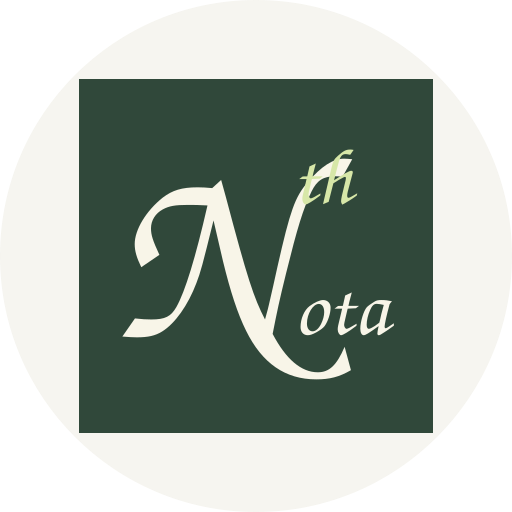
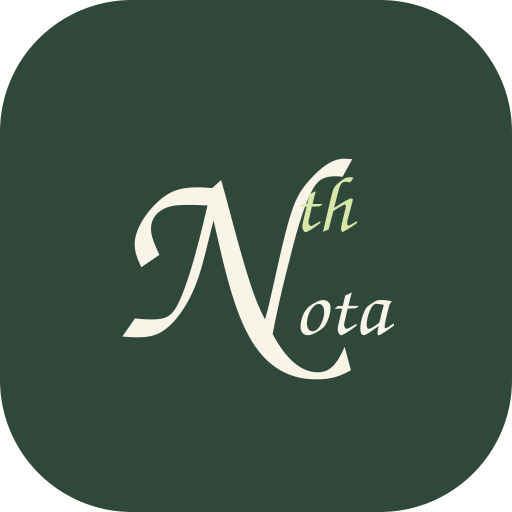
Lower cursive th and fill the complete launcher background green in 0.3.3

diff --git a/dist/app.js b/dist/app.js
@@ -37,7 +37,7 @@ function checkReminders(){if(NotaPlatform.isAndroid)return;for(const n of state.
 function readBack(text){if(NotaPlatform.read(text,state.settings.rate||1)){toast('Reading with an installed offline voice.');return;}if(!('speechSynthesis'in window)){toast('Readback is not available in this browser.');return;}speechSynthesis.cancel();const u=new SpeechSynthesisUtterance(text);u.rate=state.settings.rate||1;speechSynthesis.speak(u);toast('Reading aloud. Use Stop readback in Settings to stop.');}
 async function download(data,name,mime){if(NotaPlatform.isAndroid){try{let payload;if(data instanceof Blob)payload=data;else if(typeof data==='string'&&data.startsWith('data:'))payload=await(await fetch(data)).blob();else payload=new Blob([data],{type:mime||'text/plain'});await NotaPlatform.exportBlob(payload,name);toast('Choose where to save your file.');}catch(e){toast(e.message||'Could not save this file.');}return;}const blob=data instanceof Blob?data:typeof data==='string'&&data.startsWith('data:')?data:null;const url=blob instanceof Blob?URL.createObjectURL(blob):blob||URL.createObjectURL(new Blob([data],{type:mime||'text/plain'}));const a=document.createElement('a');a.href=url;a.download=name.replace(/[<>:"/\\|?*]/g,'-');a.click();if(!url.startsWith('data:'))setTimeout(()=>URL.revokeObjectURL(url),3000);}
 function backupModal(){modal('Keep a copy of your desk',`<div class="assistant-intro"><h3>Your thoughts are yours.</h3><p>A backup includes every workspace, note, drawing, attachment, and reminder. Keep a copy somewhere safe.</p></div><div class="setting-row"><span>${state.workspaces.length} workspaces · ${state.items.length} items<small>Stored in this browser on this device. Clearing browser data removes this copy.</small></span><i data-lucide="hard-drive"></i></div><p class="hint">Restoring replaces this device’s current desk after confirmation. Backups contain your notes and attachments in readable form; store them privately.</p>`,`<button class="secondary" id="restore-backup"><i data-lucide="upload"></i> Restore a backup</button><button class="primary" id="save-backup"><i data-lucide="download"></i> Download backup</button>`);$('#save-backup').onclick=()=>{download(JSON.stringify(state),`Nth-Nota-Backup-${new Date().toISOString().slice(0,10)}.json`,'application/json');toast('Backup download started.');};$('#restore-backup').onclick=()=>$('#restore-input').click();}
-function settingsModal(){modal('Your desk, your way',`<div class="setting-row"><span>Dark paper<small>A quieter desk for evening thoughts.</small></span><input id="dark-setting" type="checkbox" aria-label="Dark theme" ${state.settings.dark?'checked':''}></div><div class="setting-row"><span>Automatic math<small>Finish numeric equations when you type = in a note.</small></span><input id="math-setting" type="checkbox" aria-label="Automatic math" ${state.settings.math?'checked':''}></div><div class="setting-row"><span>Readback speed</span><select id="read-speed" aria-label="Readback speed">${[.75,1,1.25,1.5,2].map(s=>`<option value="${s}" ${s===(state.settings.rate||1)?'selected':''}>${s}×</option>`).join('')}</select><button id="stop-read" class="secondary">Stop readback</button></div><div class="setting-row"><span>AI · free services only<small>Local AI connects automatically on supported Android phones. Free cloud assistance is available in the connected Android build after you allow it below. No model selection or paid fallback.</small></span><span class="feature-status">${NotaPlatform.hasLocalAI?'Local AI connected':'Android required'}</span></div><div class="setting-row"><span>Allow free cloud assistance<small>${NotaPlatform.cloudState().configured?'If local AI is unavailable, send your request, selected note context, and recent conversation to our Cloudflare gateway and, if connected by the owner, Groq. Local AI is tried first. Provider data policies apply.':'The owner’s free gateway is not activated in this build yet. Local AI can work independently.'}</small></span><input id="cloud-setting" type="checkbox" aria-label="Allow cloud assistance" ${NotaPlatform.cloudState().allowed?'checked':''} ${NotaPlatform.cloudState().configured?'':'disabled'}></div><div class="setting-row"><span>Working in this prototype<small>Notes, tasks, movable cards, sketch / handwriting / ink, image editing and markup, PDF markup, DOCX/TXT/Markdown import, exports, voice recording, browser readback, search and backups.</small></span><span class="feature-status">Try it</span></div><div class="setting-row"><span>Needs the native Android build<small>Local AI quality, handwriting-to-text, notifications and background audio need device testing. Cross-device sync is a later milestone.</small></span><span class="feature-status pending">In development</span></div><p class="hint">Nth Nota 0.3.2 · An Nth Experience. Handwriting mode captures your real pen strokes; it does not convert cursive into typed text yet. Voice and readback depend on browser and device support.</p>`);$('#cloud-setting').onchange=e=>{NotaPlatform.allowCloud(e.target.checked);};$('#dark-setting').onchange=e=>{state.settings.dark=e.target.checked;document.body.classList.toggle('dark',e.target.checked);save();};$('#math-setting').onchange=e=>{state.settings.math=e.target.checked;save();};$('#read-speed').onchange=e=>{state.settings.rate=Number(e.target.value);save();};$('#stop-read').onclick=()=>NotaPlatform.stopRead();}
+function settingsModal(){modal('Your desk, your way',`<div class="setting-row"><span>Dark paper<small>A quieter desk for evening thoughts.</small></span><input id="dark-setting" type="checkbox" aria-label="Dark theme" ${state.settings.dark?'checked':''}></div><div class="setting-row"><span>Automatic math<small>Finish numeric equations when you type = in a note.</small></span><input id="math-setting" type="checkbox" aria-label="Automatic math" ${state.settings.math?'checked':''}></div><div class="setting-row"><span>Readback speed</span><select id="read-speed" aria-label="Readback speed">${[.75,1,1.25,1.5,2].map(s=>`<option value="${s}" ${s===(state.settings.rate||1)?'selected':''}>${s}×</option>`).join('')}</select><button id="stop-read" class="secondary">Stop readback</button></div><div class="setting-row"><span>AI · free services only<small>Local AI connects automatically on supported Android phones. Free cloud assistance is available in the connected Android build after you allow it below. No model selection or paid fallback.</small></span><span class="feature-status">${NotaPlatform.hasLocalAI?'Local AI connected':'Android required'}</span></div><div class="setting-row"><span>Allow free cloud assistance<small>${NotaPlatform.cloudState().configured?'If local AI is unavailable, send your request, selected note context, and recent conversation to our Cloudflare gateway and, if connected by the owner, Groq. Local AI is tried first. Provider data policies apply.':'The owner’s free gateway is not activated in this build yet. Local AI can work independently.'}</small></span><input id="cloud-setting" type="checkbox" aria-label="Allow cloud assistance" ${NotaPlatform.cloudState().allowed?'checked':''} ${NotaPlatform.cloudState().configured?'':'disabled'}></div><div class="setting-row"><span>Working in this prototype<small>Notes, tasks, movable cards, sketch / handwriting / ink, image editing and markup, PDF markup, DOCX/TXT/Markdown import, exports, voice recording, browser readback, search and backups.</small></span><span class="feature-status">Try it</span></div><div class="setting-row"><span>Needs the native Android build<small>Local AI quality, handwriting-to-text, notifications and background audio need device testing. Cross-device sync is a later milestone.</small></span><span class="feature-status pending">In development</span></div><p class="hint">Nth Nota 0.3.3 · An Nth Experience. Handwriting mode captures your real pen strokes; it does not convert cursive into typed text yet. Voice and readback depend on browser and device support.</p>`);$('#cloud-setting').onchange=e=>{NotaPlatform.allowCloud(e.target.checked);};$('#dark-setting').onchange=e=>{state.settings.dark=e.target.checked;document.body.classList.toggle('dark',e.target.checked);save();};$('#math-setting').onchange=e=>{state.settings.math=e.target.checked;save();};$('#read-speed').onchange=e=>{state.settings.rate=Number(e.target.value);save();};$('#stop-read').onclick=()=>NotaPlatform.stopRead();}
 function assistant(n,excerpt=''){
 const context=excerpt.trim()||(n?plain(n.html||''):''),key=n?.id||state.active;
 state.assistantConversations=state.assistantConversations||{};let conversation=structuredClone(state.assistantConversations[key]||[]),task=context?'proofread':'brainstorm',controller=null,lastReply='',lastTask=task;

diff --git a/dist/sw.js b/dist/sw.js
@@ -1,5 +1,5 @@
 'use strict';
-const VERSION='nth-nota-shell-0.3.2';
+const VERSION='nth-nota-shell-0.3.3';
 const FILES=['./','./index.html','./style.css','./app.js','./core.js','./desk-store.js','./ai-prompts.js','./ai-router.js','./platform.js','./manifest.webmanifest','./icon-192.png','./icon-512.png','./vendor/lucide.js','./vendor/jszip.js','./vendor/docx.js','./vendor/pdf-lib.js','./vendor/pdf.mjs','./vendor/pdf.worker.min.mjs'];
 self.addEventListener('install',e=>e.waitUntil((async()=>{const cache=await caches.open(VERSION);await cache.addAll(FILES);})()));
 self.addEventListener('activate',e=>e.waitUntil((async()=>{for(const key of await caches.keys())if(key.startsWith('nth-nota-shell-')&&key!==VERSION)await caches.delete(key);await self.clients.claim();})()));

diff --git a/tools/generate-icon.py b/tools/generate-icon.py
@@ -18,7 +18,7 @@ def text(value,x,y,size,color):
   parts.append((pen.getCommands(),color));x+=glyph.width*scale
 
 text('N',95,745,760,'#f8f5e8')
-text('th',615,360,230,'#d7e7a8')
+text('th',615,440,230,'#d7e7a8')
 text('ota',620,738,240,'#f8f5e8')
 body=''.join(f'<path d="{d}" fill="{color}"/>' for d,color in parts)
 square='<path d="M0 0H1024V1024H0Z" fill="#30483a"/>'
@@ -32,35 +32,35 @@ for density,size in [('mdpi',48),('hdpi',72),('xhdpi',96),('xxhdpi',144),('xxxhd
  folder=Path('android/app/src/main/res')/('mipmap-'+density);folder.mkdir(exist_ok=True)
  png(svg,str(folder/'ic_launcher.png'),size)
 
-# Android controls the outer adaptive mask. Fit an actual square inside its
-# smallest circular visible region (72/108 of the full foreground viewport).
+# Keep the existing lettering scale; the background now fills the complete
+# launcher-controlled mask in the same green as the centre.
 origin=276;scale=472/1024
 paths='<path android:pathData="M0 0H1024V1024H0Z" android:fillColor="#30483a"/>'+''.join(f'<path android:pathData="{d}" android:fillColor="{color}"/>' for d,color in parts)
 head='<vector xmlns:android="http://schemas.android.com/apk/res/android" android:width="108dp" android:height="108dp" android:viewportWidth="1024" android:viewportHeight="1024">'
 group=f'<group android:translateX="{origin}" android:translateY="{origin}" android:scaleX="{scale}" android:scaleY="{scale}">'
 Path('android/app/src/main/res/drawable/ic_launcher_foreground.xml').write_text(head+group+paths+'</group></vector>')
-mono_path='M0 0H1024V1024H0Z '+' '.join(d for d,color in parts)
-mono=head+group+f'<path android:pathData="{mono_path}" android:fillColor="#ffffff" android:fillType="evenOdd"/></group></vector>'
+mono=head+group+''.join(f'<path android:pathData="{d}" android:fillColor="#ffffff"/>' for d,color in parts)+'</group></vector>'
 Path('android/app/src/main/res/drawable/ic_launcher_monochrome.xml').write_text(mono)
 for folder,extra in [('mipmap-anydpi-v26',''),('mipmap-anydpi-v33','<monochrome android:drawable="@drawable/ic_launcher_monochrome"/>')]:
  Path('android/app/src/main/res/'+folder+'/ic_launcher.xml').write_text('<adaptive-icon xmlns:android="http://schemas.android.com/apk/res/android"><background android:drawable="@color/icon_background"/><foreground android:drawable="@drawable/ic_launcher_foreground"/>'+extra+'</adaptive-icon>')
-Path('android/app/src/main/res/values/icon_colors.xml').write_text('<resources><color name="icon_background">#f6f5f0</color></resources>')
+Path('android/app/src/main/res/values/icon_colors.xml').write_text('<resources><color name="icon_background">#30483a</color></resources>')
 
-# Code-native previews approximate Android's circular launcher mask.
-clip='<defs><clipPath id="mask"><circle cx="512" cy="512" r="341.333333"/></clipPath></defs>'
+# Code-native previews approximate the rounded-square launcher in the owner's screenshot.
+clip='<defs><clipPath id="mask"><rect x="170.666667" y="170.666667" width="682.666666" height="682.666666" rx="176"/></clipPath></defs>'
 new_inner=f'<g transform="translate({origin} {origin}) scale({scale})">'+square+body+'</g>'
-new_preview=svg_wrap(clip+'<g clip-path="url(#mask)"><rect width="1024" height="1024" fill="#f6f5f0"/>'+new_inner+'</g>','170.666667 170.666667 682.666666 682.666666')
+new_preview=svg_wrap(clip+'<g clip-path="url(#mask)"><rect width="1024" height="1024" fill="#30483a"/>'+new_inner+'</g>','170.666667 170.666667 682.666666 682.666666')
 png(new_preview,'artwork/icon-options/new-launcher-preview.png',512)
-old=Path('artwork/icon-options/old-italic.svg').read_text()
+old=Path('artwork/icon-options/cursive-square-0.3.2.svg').read_text()
 old_body=old.split('>',1)[1].rsplit('</svg>',1)[0]
-old_preview=svg_wrap(clip+'<g clip-path="url(#mask)">'+old_body+'</g>','170.666667 170.666667 682.666666 682.666666')
+old_inner=f'<g transform="translate({origin} {origin}) scale({scale})">'+old_body+'</g>'
+old_preview=svg_wrap(clip+'<g clip-path="url(#mask)"><rect width="1024" height="1024" fill="#f6f5f0"/>'+old_inner+'</g>','170.666667 170.666667 682.666666 682.666666')
 # Unique mask IDs keep the two embedded SVGs independent in the comparison.
 old_preview=old_preview.replace('id="mask"','id="old-mask"').replace('url(#mask)','url(#old-mask)')
 compare='<svg xmlns="http://www.w3.org/2000/svg" width="1000" height="620" viewBox="0 0 1000 620"><rect width="1000" height="620" fill="#ecebe4"/>'
-for source,x,label in [(old_preview,80,'Current · italic'),(new_preview,560,'New · cursive square')]:
+for source,x,label in [(old_preview,80,'Previous · cream border'),(new_preview,560,'New · all green')]:
  source=source.replace('width="1024" height="1024" viewBox','width="360" height="360" viewBox',1)
  compare+=f'<g transform="translate({x} 100)">'+source+f'<text x="180" y="420" text-anchor="middle" font-family="sans-serif" font-size="26" fill="#30483a">{label}</text></g>'
 compare+='</svg>'
 Path('artwork/icon-options/comparison.svg').write_text(compare)
 png(compare,'artwork/icon-options/comparison.png',1000)
-print('Created cursive square mark, adaptive/themed assets, and comparison preview.')
+print('Created lower th, full green launcher background, and comparison preview.')

diff --git a/README.md b/README.md
@@ -1,4 +1,4 @@
-# Nth Nota 0.3.2
+# Nth Nota 0.3.3
 
 An Nth Experience app for notes, sketches, tasks and ideas. Includes the offline browser editor and Android preview project. No paid AI service or client-side cloud key is configured. The Android preview connects to the owner’s free gateway after explicit user opt-in.
 
@@ -93,3 +93,10 @@ The [0.3.1 workflow](https://github.com/bdredenbach/Nth-Nota/actions/runs/392451
 ## Verified 0.3.2 Android preview
 
 The [0.3.2 workflow](https://github.com/bdredenbach/Nth-Nota/actions/runs/39246397637) passed all 38 automated checks and APK v2 signature verification. All 23 bundled editor assets matched source. The certificate matches 0.3.0/0.3.1, and native code retains the verified free gateway address. The square plate fits Android's circular adaptive mask; standard and themed vector artwork were visually inspected. The comparison is a code-rendered approximation of launcher presentation, not a phone screenshot. See [verification record](docs/android-build-verification-0.3.2.json).
+
+## Added in 0.3.3
+
+- Lowers the cursive “th” by 80 units in the 1024-unit artwork while keeping the shared-N layout and existing lettering scale.
+- Fills the complete Android adaptive-icon background with the centre's same forest green, removing the cream surround visible in the owner's launcher screenshot. The launcher still chooses its outer shape. The themed asset uses the cursive lettering without a separate square plate.
+- Preserves the previous cursive-square mark in `artwork/icon-options/cursive-square-0.3.2.svg` and `.png`. The updated comparison approximates the owner's rounded-square launcher mask.
+- Carries forward the existing AI connection. Phone inference testing and daily-counter cleanup schedule confirmation remain pending.
